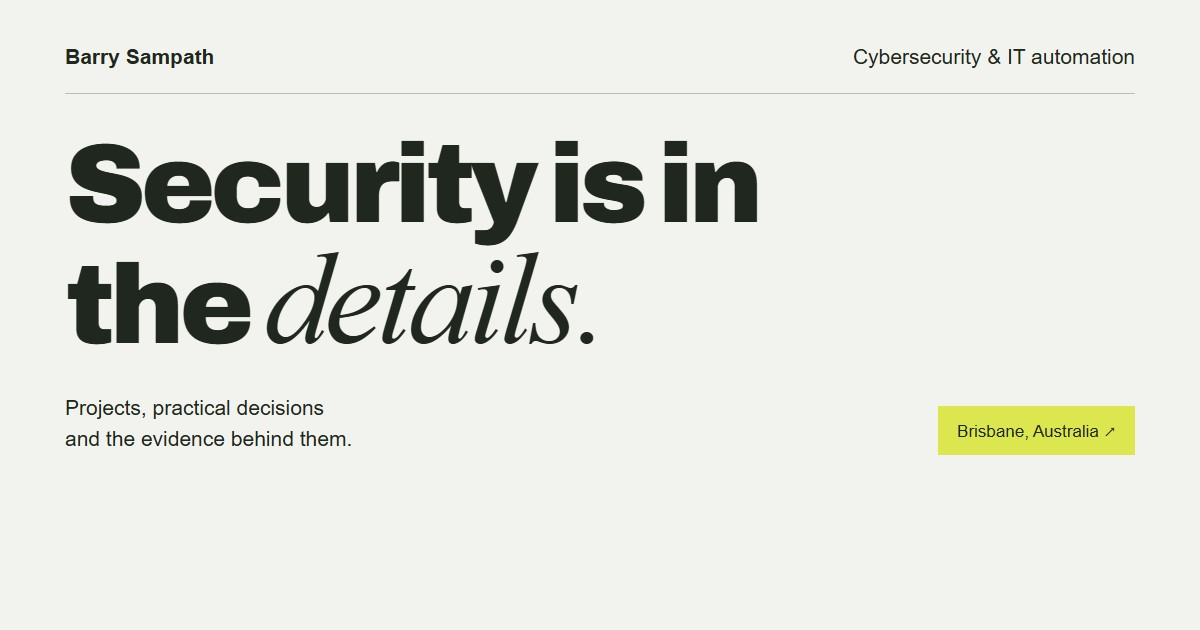
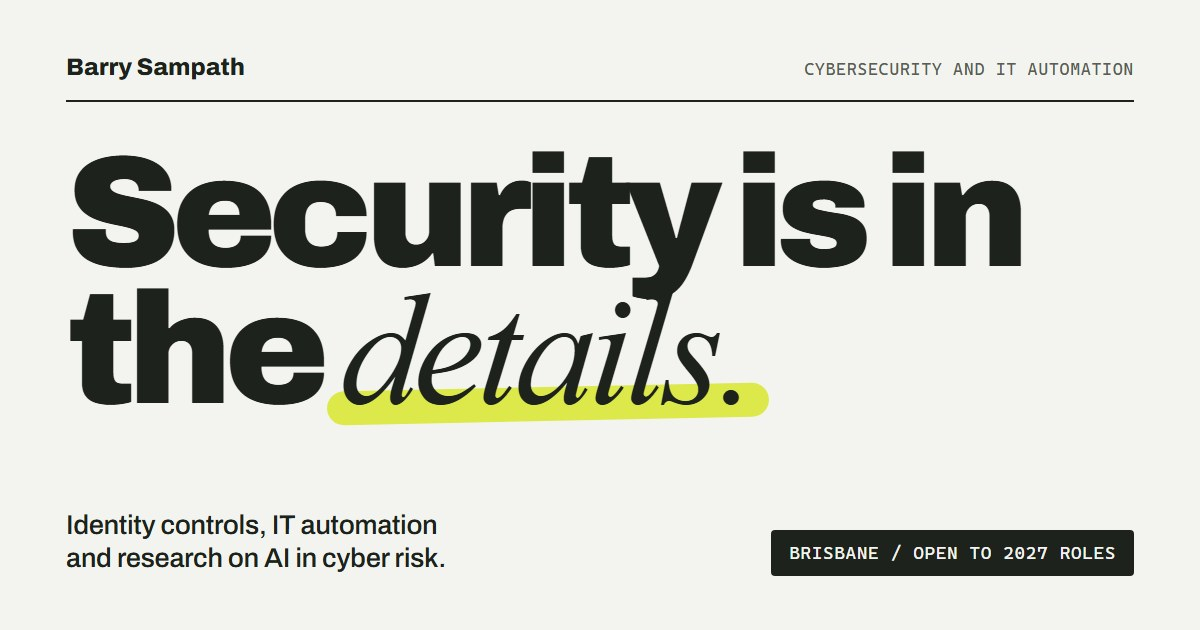
Redraw the social card and fan folders out on scroll for touch screens

diff --git a/css/home.css b/css/home.css
@@ -66,7 +66,7 @@
 .desk-caption, .desk-hint { position: absolute; bottom: 16px; color: var(--stage-muted); }
 .desk-caption { left: 20px; }
 .desk-hint { right: 20px; }
-.desk-start { position: absolute; left: 50%; bottom: 18px; transform: translateX(-50%); }
+.desk-start { position: absolute; left: 50%; bottom: 18px; transform: translateX(-50%); white-space: nowrap; }
 .desk-start:hover { transform: translateX(-50%) translateY(-2px); }
 .desk :focus-visible { outline-color: var(--marker); }
 .desk-tag { position: absolute; left: 0; top: 0; display: inline-flex; align-items: center; gap: 7px; padding: 6px 11px 6px 9px; border-radius: 3px; background: #f3f4ef; color: #1d231c; font-family: var(--mono); font-size: .7rem; letter-spacing: .03em; white-space: nowrap; opacity: 0; pointer-events: none; transition: opacity .3s linear; will-change: transform; }
@@ -87,6 +87,15 @@
 .sheet-note em { font-size: clamp(1rem, 1.5vw, 1.32rem); line-height: 1.08; }
 .folder:hover .sheet-shot, .folder:focus-within .sheet-shot { transform: translate(8%, -96px) rotate(8deg); }
 .folder:hover .sheet-note, .folder:focus-within .sheet-note { transform: translate(-6%, -74px) rotate(-9deg); }
+/* Touch screens have no hover, so the sheets fan out as each folder scrolls through the screen. */
+@keyframes fan-shot { to { transform: translate(8%, -96px) rotate(8deg); } }
+@keyframes fan-note { to { transform: translate(-6%, -74px) rotate(-9deg); } }
+@media (hover: none) and (prefers-reduced-motion: no-preference) {
+  @supports (animation-timeline: view()) {
+    .sheet-shot { animation: fan-shot linear both; animation-timeline: view(); animation-range: cover 22% cover 46%; }
+    .sheet-note { animation: fan-note linear both; animation-timeline: view(); animation-range: cover 22% cover 46%; }
+  }
+}
 .folder-front { position: relative; z-index: 1; display: flex; flex-direction: column; flex: 1; gap: 12px; padding: 26px 26px 24px; border: 1px solid var(--line); border-radius: 0 8px 8px 8px; background: var(--panel); transform-origin: 50% 100%; transition: transform .5s var(--ease); }
 .folder:hover .folder-front, .folder:focus-within .folder-front { transform: rotateX(-7deg); }
 .folder-tab { position: absolute; left: -1px; bottom: 100%; display: flex; align-items: center; max-width: 92%; height: 32px; padding: 0 14px; border: 1px solid var(--line); border-bottom: 0; border-radius: 8px 8px 0 0; background: var(--panel); color: var(--ink); overflow: hidden; white-space: nowrap; }
